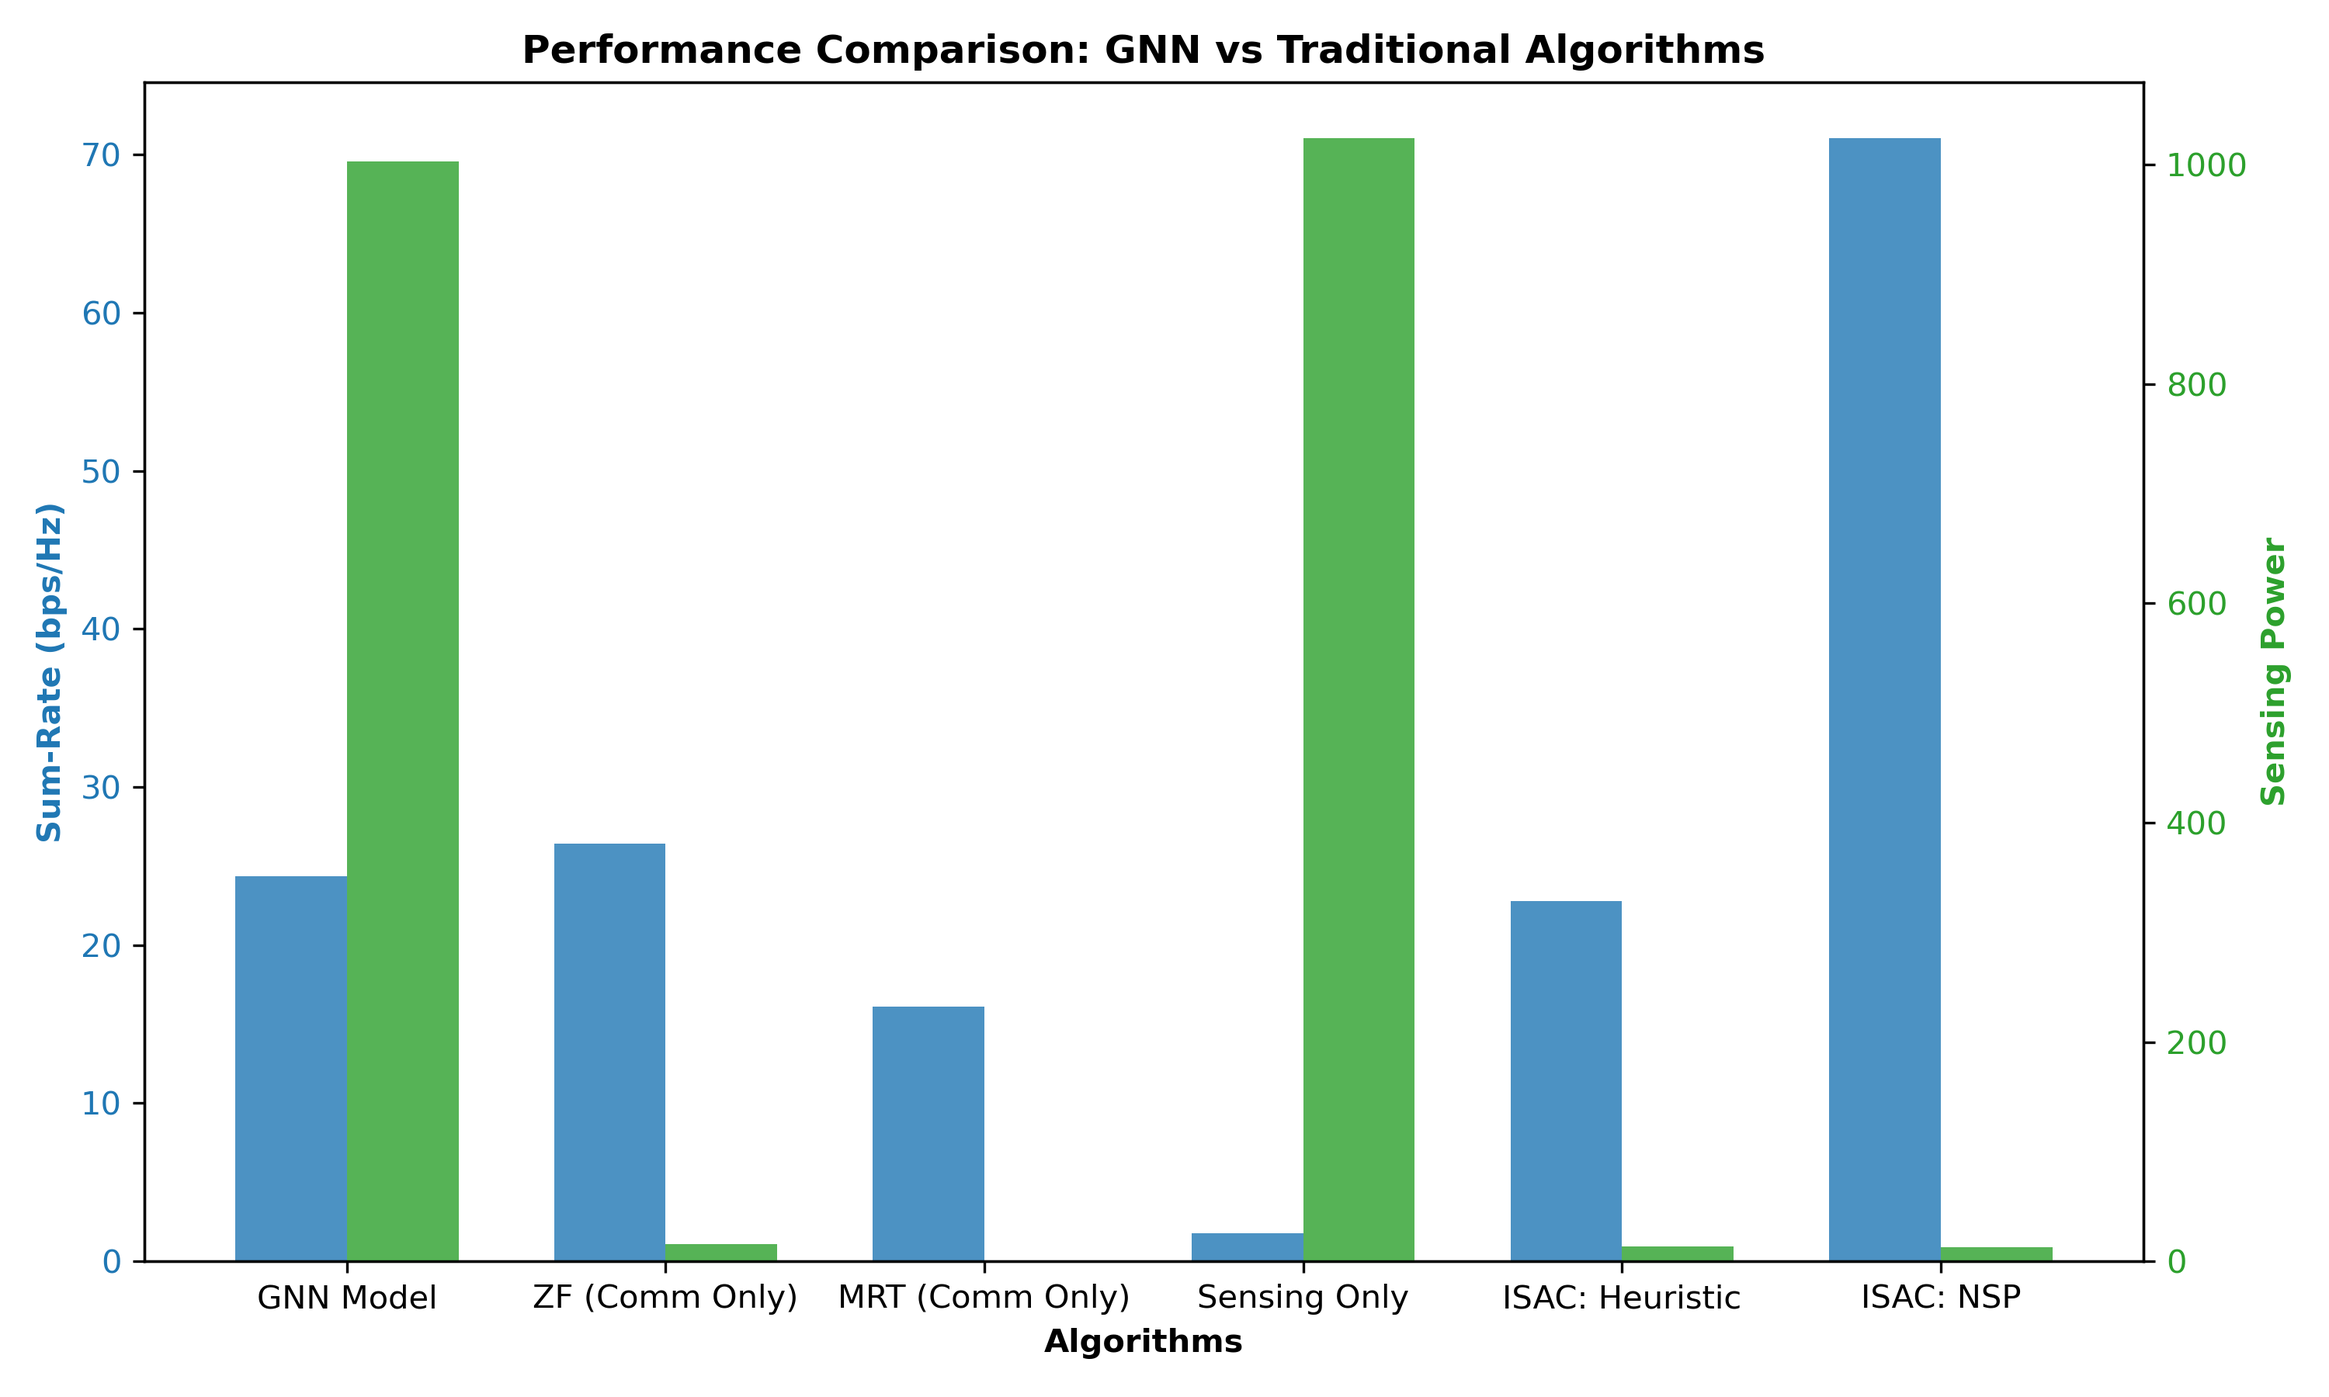
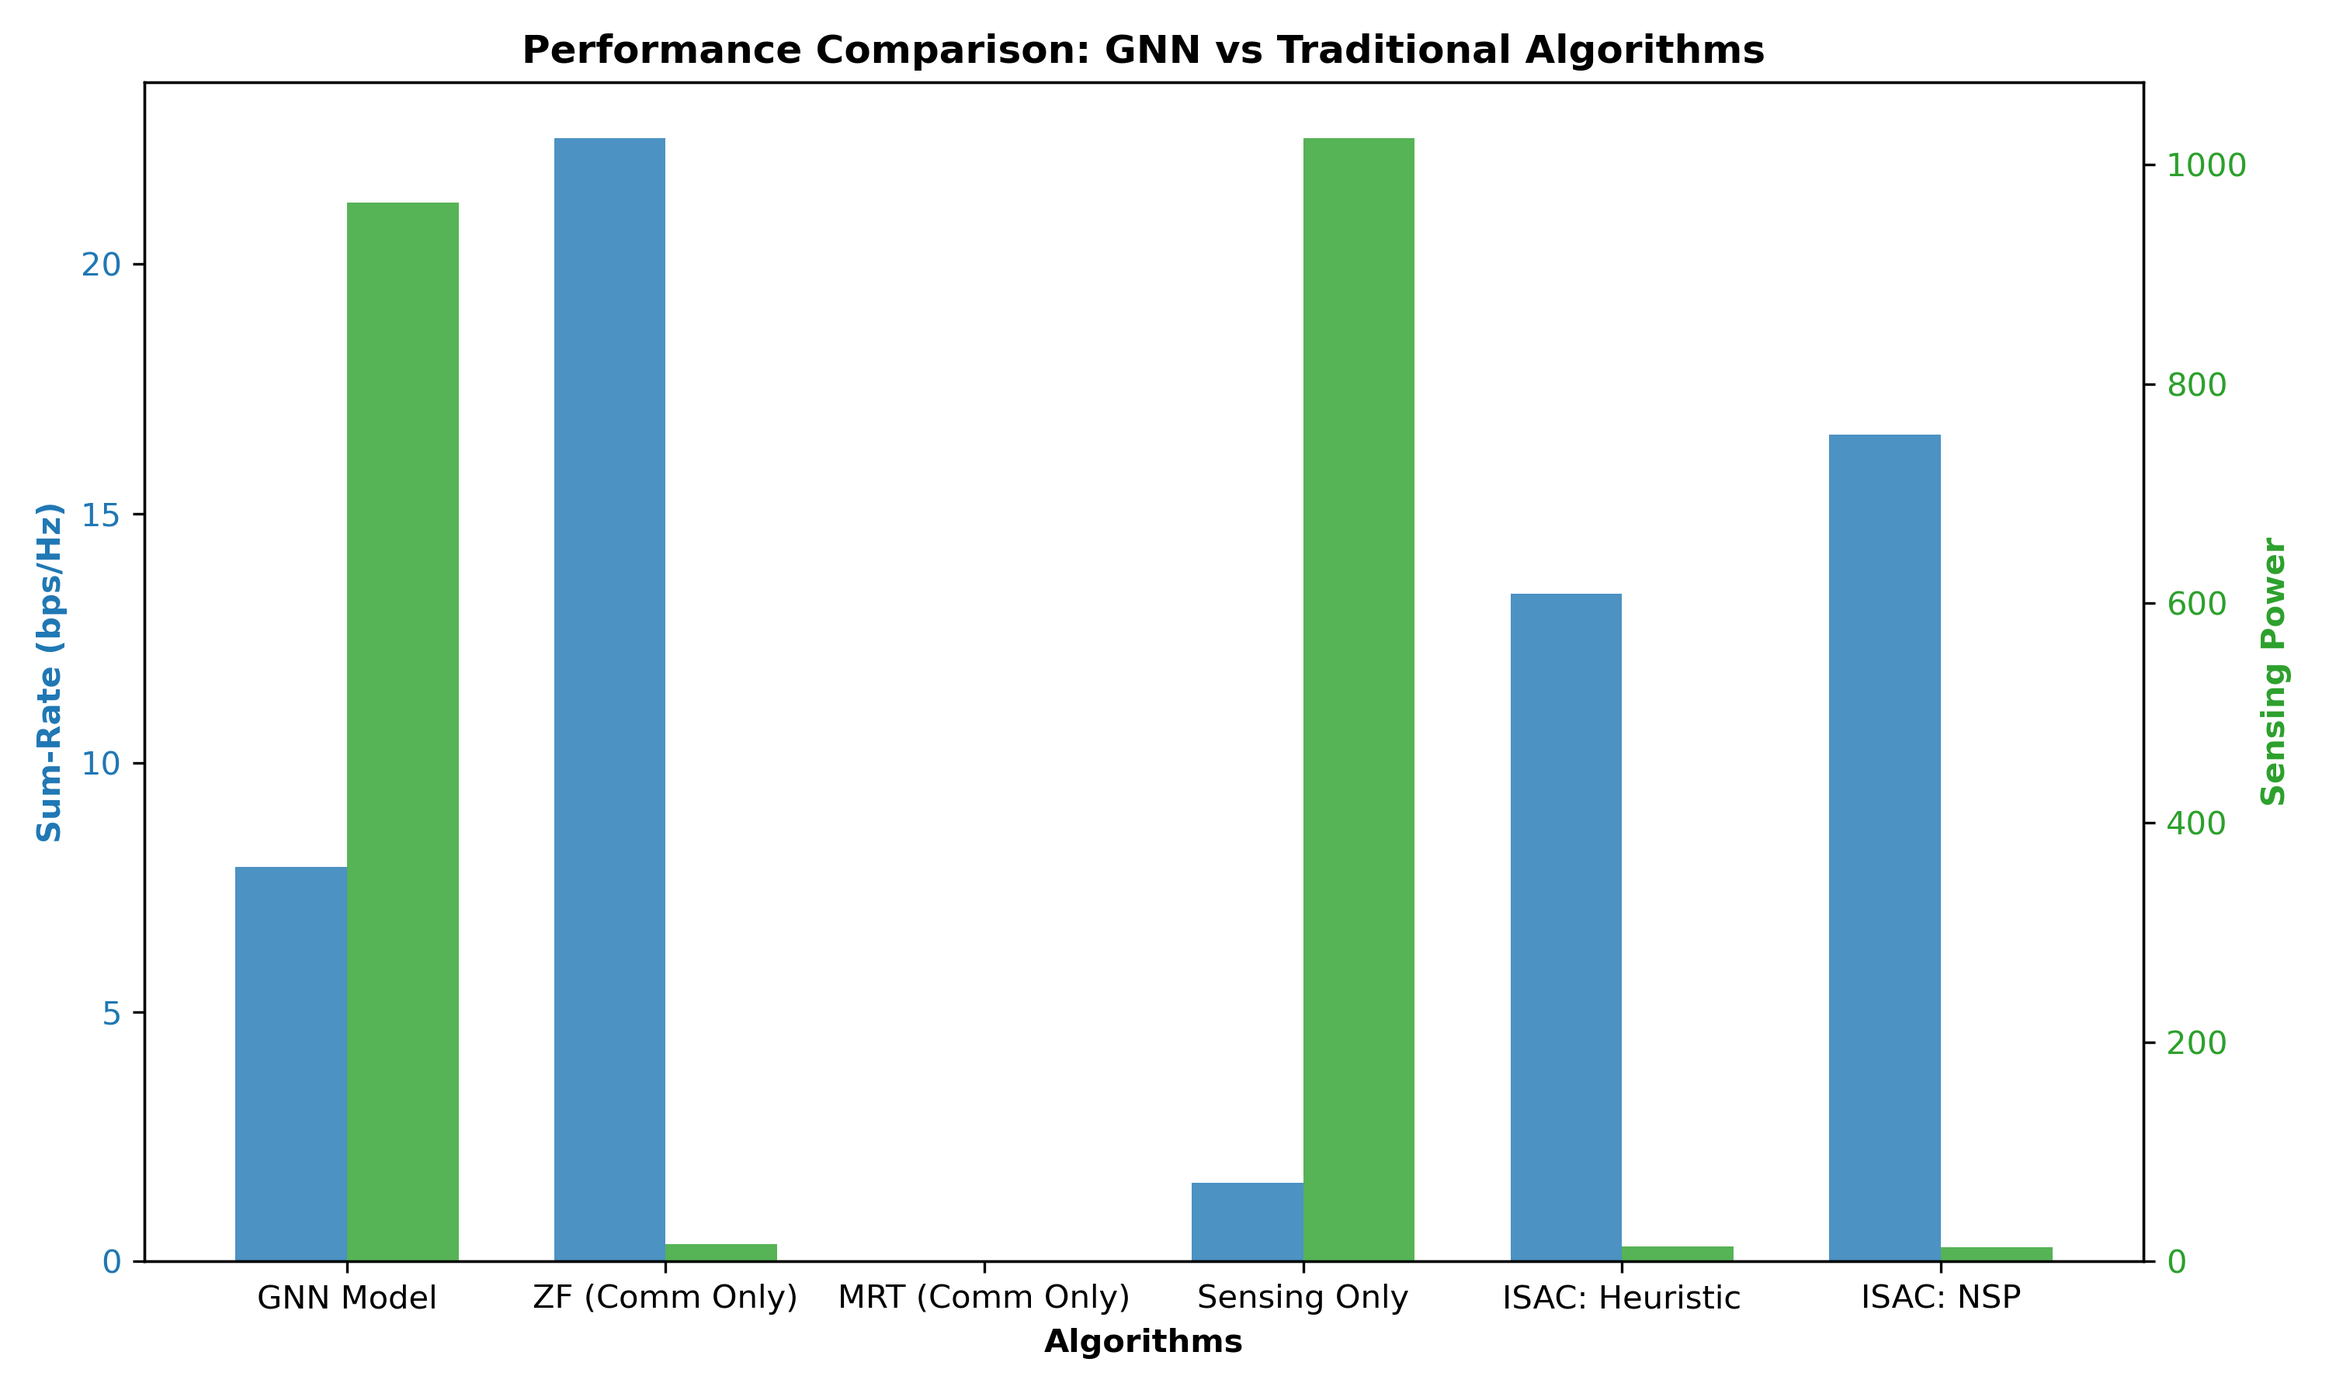
多算法比较

diff --git a/main.py b/main.py
@@ -4,6 +4,9 @@ import matplotlib.pyplot as plt
 from tqdm import tqdm 
 import numpy as np
 
+import argparse
+import os
+
 from sklearn.model_selection import train_test_split
 from torch.utils.data import TensorDataset, DataLoader
 
@@ -12,6 +15,17 @@ from utils.loss_fn import compute_isac_loss
 from models.mlp import ISAC_MLP
 from models.unfolding import ISAC_DeepUnfoldingNet
 from models.GNN_Unfolding import ISAC_GNN_UnfoldingNet
+
+import datetime 
+
+def parse_args():
+    parser = argparse.ArgumentParser(description="ISAC GNN Training")
+    # 核心实验参数
+    parser.add_argument('--algo', type=str, default='gnn_mrt', 
+                        choices=['gnn_mrt', 'gnn_zf', 'gnn_heuristic', 'zf_only', 'mrt_only', 'heuristic_only'])
+    parser.add_argument('--alpha', type=float, default=0.5, help='Trade-off between Rate and Sensing')
+    parser.add_argument('--epochs', type=int, default=100)
+    return parser.parse_args()
 
 def train_isac_model():
     # ==========================================
@@ -29,9 +43,9 @@ def train_isac_model():
     # 【修改点 1】：定义固定的数据集大小
     TOTAL_SAMPLES = 20000  
     BATCH_SIZE = 1024
-    EPOCHS = 200
+    EPOCHS = 1000
     LR = 1e-3
-    ALPHA, RATE_NORM, SENSE_NORM = 0.7, 20.0, 1024
+    ALPHA, RATE_NORM, SENSE_NORM = 0.8, 8.0, 1024
 
     # ==========================================
     # 2. 生成固定数据集并使用 sklearn 划分
@@ -77,9 +91,24 @@ def train_isac_model():
     # ==========================================
     # 3. 初始化模型与优化器
     # ==========================================
-    model = ISAC_GNN_UnfoldingNet(
-        num_ap=NUM_APS, antennas_per_ap=ANTENNAS_PER_AP, num_layers=8, hidden_dim=64, p_max=P_MAX
-    ).to(device)
+    args = parse_args()
+    
+    # 根据命令行参数配置模型
+    if args.algo == 'gnn_mrt':
+        model = ISAC_GNN_UnfoldingNet(NUM_APS, ANTENNAS_PER_AP, num_layers=4, init_method='mrt').to(device)
+    elif args.algo == 'gnn_zf':
+        model = ISAC_GNN_UnfoldingNet(NUM_APS, ANTENNAS_PER_AP, num_layers=4, init_method='zf').to(device)
+    elif args.algo == 'gnn_heuristic':
+        model = ISAC_GNN_UnfoldingNet(NUM_APS, ANTENNAS_PER_AP, num_layers=4, init_method='heuristic').to(device)
+    elif args.algo == 'mrt_only':
+        model = ISAC_GNN_UnfoldingNet(NUM_APS, ANTENNAS_PER_AP, num_layers=0, init_method='mrt').to(device)
+    elif args.algo == 'heuristic_only':
+        model = ISAC_GNN_UnfoldingNet(NUM_APS, ANTENNAS_PER_AP, num_layers=0, init_method='heuristic').to(device)
+    elif args.algo == 'zf_only':
+        model = ISAC_GNN_UnfoldingNet(NUM_APS, ANTENNAS_PER_AP, num_layers=0, init_method='zf').to(device)
+        args.epochs = 1  # 传统算法不需要迭代训练，跑 1 个 epoch 评估即可
+    else:
+        raise ValueError(f"❌ 未知的算法配置: args.algo='{args.algo}'，请检查拼写！")
 
     
     optimizer = optim.Adam(model.parameters(), lr=LR)
@@ -121,7 +150,7 @@ def train_isac_model():
             epoch_train_loss += loss.item() * H_batch.size(0)
             
         avg_train_loss = epoch_train_loss / len(train_dataset)
-        if epoch == 0:
+        if epoch % 50 == 0:
             with torch.no_grad():
                 HW = torch.bmm(H_batch, W)
 
@@ -164,7 +193,7 @@ def train_isac_model():
         epoch_val_rate = 0.0
         epoch_val_sense = 0.0
         
-        with torch.no_grad(): # 明确告诉 PyTorch 不要计算梯度，节省显存并加速
+        with torch.no_grad(): # 不计算梯度，节省显存并加速
             for H_batch, a_batch in val_loader:
                 H_batch = H_batch.to(device)
                 a_batch = a_batch.to(device)
@@ -202,12 +231,41 @@ def train_isac_model():
         })
 
     print("\n 训练完成！")
-    plot_training_history(history)
-    torch.save(model.state_dict(), "isac_gnn_weights.pth")
+    
+    train_params = {
+        'K': K,
+        'AP': NUM_APS,
+        'Ant/AP': ANTENNAS_PER_AP,
+        'Samples': TOTAL_SAMPLES,
+        'Batch': BATCH_SIZE,
+        'Epochs': EPOCHS,
+        'LR': LR,
+        'Alpha': ALPHA,
+        'Rate_Norm': RATE_NORM,
+        'Sense_Norm': SENSE_NORM
+    }
+    
+    # 调用更新后的绘图函数
+    plot_training_history(history, train_params)
+    
+    save_dir = f"./results/{args.algo}/alpha_{args.alpha}/"
+    os.makedirs(save_dir, exist_ok=True)
+    
+    # 训练逻辑...
+    # 保存模型权重和日志到 save_dir
+    torch.save(model.state_dict(), os.path.join(save_dir, "model.pth"))
 
-def plot_training_history(history):
+
+def plot_training_history(history, params):
+    """
+    绘制训练曲线并保存
+    :param history: 包含 loss, rate, sense_power 的字典
+    :param params: 包含训练超参数的字典
+    """
     epochs = range(len(history['train_loss']))
-    plt.figure(figsize=(15, 5))
+    
+    # 稍微增加图片高度，为底部的参数文本留出空间
+    fig = plt.figure(figsize=(16, 6))
     
     plt.subplot(1, 3, 1)
     plt.plot(epochs, history['train_loss'], 'r--', label='Train Loss', alpha=0.5)
@@ -225,8 +283,30 @@ def plot_training_history(history):
     plt.title('Validation Sensing Gain')
     plt.grid(True); plt.legend()
     
-    plt.tight_layout()
-    plt.savefig("training_curves_val.png", dpi=300)
+    # ==========================================
+    # 将参数字典转换为格式化字符串
+    # ==========================================
+    # 每 5 个参数换一行，避免文本太长超出边界
+    param_items = [f"{k}: {v}" for k, v in params.items()]
+    param_str = " | ".join(param_items[:5]) + "\n" + " | ".join(param_items[5:])
+    
+    # 在图片底部添加文本框
+    plt.figtext(0.5, 0.02, f"Training Parameters:\n{param_str}", 
+                ha="center", va="bottom", fontsize=10, 
+                bbox={"facecolor":"#f0f0f0", "alpha":0.8, "pad":5, "edgecolor":"gray"})
+    
+    plt.tight_layout(rect=[0, 0.15, 1, 1]) 
+    
+    # ==========================================
+    # 生成带时间戳的唯一文件名，防止覆盖
+    # ==========================================
+    timestamp = datetime.datetime.now().strftime("%Y%m%d_%H%M%S")
+    filename = f"training_curves_{timestamp}.png"
+    
+    plt.savefig(filename, dpi=300)
+    print(f"\n 绘图完成！训练曲线已保存为: {filename}")
+    
+    plt.close() # 释放内存，防止在循环中多次调用时内存泄漏
 
 if __name__ == '__main__':
     train_isac_model()

diff --git a/evaluate.py b/evaluate.py
@@ -3,14 +3,35 @@ import numpy as np
 import matplotlib.pyplot as plt
 from tqdm import tqdm
 
-# 导入你现有的模块
 from utils.channel_gen import generate_cell_free_channel, generate_cell_free_steering_vector
 from utils.loss_fn import compute_isac_loss
 from models.GNN_Unfolding import ISAC_GNN_UnfoldingNet
-from models.mlp import PowerNormalizationLayer  # 用于基线算法的功率归一化
+from models.mlp import PowerNormalizationLayer  
+
+def per_ap_power_normalize(W, num_ap=16, antennas_per_ap=4, p_max=1.0):
+    """
+    对任意波束矩阵进行单 AP 功率归一化，确保每个 AP 满功率发射
+    """
+    batch_size, num_tx, K = W.shape
+    
+    # 重塑为 (Batch, AP数量, 每个AP的天线数, 用户数)
+    W_reshaped = W.view(batch_size, num_ap, antennas_per_ap, K)
+    
+    # 计算每个 AP 的当前总功率
+    power_per_ap = torch.sum(torch.abs(W_reshaped)**2, dim=(2, 3))
+    
+    # 计算缩放因子：强制将每个 AP 的功率拉伸/压缩到 p_max
+    # 注意：基线算法通常需要满功率发射才能公平对比，所以这里直接除以当前功率
+    scaling_factor = torch.sqrt(p_max / (power_per_ap + 1e-12))
+    scaling_factor = scaling_factor.unsqueeze(-1).unsqueeze(-1)
+    
+    # 应用缩放并恢复形状
+    W_norm = (W_reshaped * scaling_factor).view(batch_size, num_tx, K)
+    
+    return W_norm
 
 
-def get_heuristic_isac_beamformer(H, a, K, rho=0.8, noise_var=1e-13):
+def get_heuristic_isac_beamformer(H, a, K, rho=0.5, noise_var=1e-13, num_ap=16, antennas_per_ap=4):
     """
     传统 ISAC 算法 1: 启发式加权 (Heuristic Trade-off)
     使用方向矢量进行能量比例混合
@@ -19,13 +40,17 @@ def get_heuristic_isac_beamformer(H, a, K, rho=0.8, noise_var=1e-13):
     W_zf = get_zf_beamformer(H, noise_var)
     W_sense = get_sensing_beamformer(a, K)
     
-    # 提取纯方向矩阵 (Frobenius 范数为 1)
+    # 提取方向 (总功率为1)
     W_zf_dir = W_zf / (torch.norm(W_zf, dim=(1,2), keepdim=True) + 1e-12)
     W_sense_dir = W_sense / (torch.norm(W_sense, dim=(1,2), keepdim=True) + 1e-12)
     
-    # 按能量比例混合 (注意是开根号，因为功率是幅度的平方)
-    W_isac = np.sqrt(rho) * W_zf_dir + np.sqrt(1 - rho) * W_sense_dir
-    return W_isac
+    # 混合 (此时总功率约为1)
+    # 注意：这里最好用 torch.sqrt 而不是 np.sqrt，保持张量操作
+    W_isac_raw = torch.sqrt(torch.tensor(rho)) * W_zf_dir + torch.sqrt(torch.tensor(1 - rho)) * W_sense_dir
+    
+    # 致命修复：将总功率为 1 的混合波束，按单 AP 约束放大到满功率 (总功率 16)！
+    return per_ap_power_normalize(W_isac_raw, num_ap, antennas_per_ap)
+
 
 def get_nsp_isac_beamformer(H, a, K, rho=0.8, noise_var=1e-13):
     """
@@ -58,10 +83,9 @@ def get_nsp_isac_beamformer(H, a, K, rho=0.8, noise_var=1e-13):
     return W_isac_nsp
 
 
-
-def get_mrt_beamformer(H):
-    """传统 MRT 波束赋形: W = H^H"""
-    return torch.conj(torch.transpose(H, 1, 2))
+def get_mrt_beamformer(H, num_ap=16, antennas_per_ap=4):
+    W_raw = torch.conj(torch.transpose(H, 1, 2))
+    return per_ap_power_normalize(W_raw, num_ap, antennas_per_ap)
 
 def get_zf_beamformer(H, noise_var=1e-13):
     """传统 ZF 波束赋形: W = H^H (H H^H)^-1"""

diff --git a/utils/baseline.py b/utils/baseline.py
@@ -1,0 +1,63 @@
+import torch
+import math
+
+def get_zf_beamformer(H, noise_var=1e-9):
+    """
+    计算迫零 (Zero-Forcing) 波束赋形矩阵 (支持 Batch 处理)
+    
+    参数:
+    H: 信道矩阵, shape (B, K, N)
+    noise_var: 正则化参数, 防止矩阵求逆时出现 NaN
+    
+    返回:
+    W_zf: 迫零波束矩阵, shape (B, N, K)
+    """
+    B, K, N = H.shape
+    
+    # 1. 计算 H 的共轭转置 H^H -> shape: (B, N, K)
+    H_H = torch.conj(torch.transpose(H, 1, 2))
+    
+    # 2. 计算 H * H^H -> shape: (B, K, K)
+    H_HH = torch.matmul(H, H_H)
+    
+    # 3. 生成正则化项 (noise_var * I)
+    # 注意：必须保持与 H 相同的设备 (CPU/GPU) 和数据类型 (Complex)
+    eye = torch.eye(K, dtype=H.dtype, device=H.device).unsqueeze(0).expand(B, -1, -1)
+    
+    # 4. 矩阵求逆 (H * H^H + noise_var * I)^-1
+    H_HH_inv = torch.linalg.inv(H_HH + noise_var * eye)
+    
+    # 5. 计算最终的 ZF 波束 W = H^H * (H * H^H)^-1 -> shape: (B, N, K)
+    W_zf = torch.matmul(H_H, H_HH_inv)
+    
+    return W_zf
+
+def get_heuristic_isac_beamformer(H, a, rho=0.5):
+    """
+    计算启发式 ISAC 波束赋形矩阵 (Warm-start 初始化)
+    """
+    B, K, N = H.shape
+    
+    # 1. 获取纯通信波束 (ZF)
+    W_zf = get_zf_beamformer(H) # shape: (B, N, K)
+    
+    # ==========================================
+    # 如果 a 是 2D 的 (B, N)，给它增加一个维度变成 (B, N, 1)
+    if a.dim() == 2:
+        a = a.unsqueeze(-1)
+        
+    # 现在 a 的形状是 (B, N, 1)，可以安全地 expand 到 (B, N, K) 了
+    W_sense = a.expand(-1, -1, K) / math.sqrt(K)
+    
+    # 3. 提取纯方向 (全局 Frobenius 范数归一化)
+    norm_zf = torch.norm(W_zf, dim=(1, 2), keepdim=True) + 1e-12
+    W_zf_dir = W_zf / norm_zf
+    
+    norm_sense = torch.norm(W_sense, dim=(1, 2), keepdim=True) + 1e-12
+    W_sense_dir = W_sense / norm_sense
+    
+    # 4. 按能量比例混合
+    W_isac = math.sqrt(rho) * W_zf_dir + math.sqrt(1.0 - rho) * W_sense_dir
+    
+    return W_isac
+

diff --git a/models/GNN_Unfolding.py b/models/GNN_Unfolding.py
@@ -2,6 +2,9 @@ import torch
 import torch.nn as nn
 import torch.nn.functional as F
 from .mlp import PowerNormalizationLayer 
+from utils.baseline import get_zf_beamformer, get_heuristic_isac_beamformer
+
+
 
 class BipartiteGNN_WMMSE_Layer(nn.Module):
     """
@@ -114,10 +117,11 @@ class ISAC_GNN_UnfoldingNet(nn.Module):
     """
     基于 GNN 的 Cell-Free ISAC 深度展开网络
     """
-    def __init__(self, num_ap, antennas_per_ap, num_layers=4, hidden_dim=64, p_max=1.0):
+    def __init__(self, num_ap, antennas_per_ap, num_layers=4, hidden_dim=64, p_max=1.0, init_method='mrt'):
         super().__init__()
         self.num_layers = num_layers
-        
+        self.init_method = init_method
+
         self.unfolding_layers = nn.ModuleList([
             BipartiteGNN_WMMSE_Layer(hidden_dim) 
             for _ in range(num_layers)
@@ -129,11 +133,17 @@ class ISAC_GNN_UnfoldingNet(nn.Module):
 
     def forward(self, H, a):
         # ==========================================
-        # 步骤 0: 物理启发初始化 (MRT - 最大比传输)
+        # 步骤 0: 根据配置选择初始化/基线算法
         # ==========================================
-        # 使用信道的共轭转置作为初始波束方向，并乘以可学习的标量
-        # H: (B, K, N) -> H^H: (B, N, K)
-        W_0 = self.mrt_scale * torch.conj(torch.transpose(H, 1, 2))
+        if self.init_method == 'mrt':
+            W_0 = torch.conj(torch.transpose(H, 1, 2))
+        elif self.init_method == 'zf':
+            W_0 = get_zf_beamformer(H) # 调用你外部写的 ZF 函数
+        elif self.init_method == 'heuristic':
+            W_0 = get_heuristic_isac_beamformer(H, a) # 调用混合函数
+        else:
+            raise ValueError(f"Unknown init_method: {self.init_method}")
+
         
         # 初始功率归一化
         W = self.power_norm(W_0) 

diff --git a/run_pareto.py b/run_pareto.py
@@ -1,3 +1,4 @@
+# 暂时不能用
 import torch
 import numpy as np
 import matplotlib.pyplot as plt
@@ -120,7 +121,6 @@ def train_for_pareto_point(alpha, H_train, a_train):
 # ==========================================
 def main():
     print("生成固定的训练数据集...")
-    # 修改：直接使用 utils/channel_gen.py 中的函数，它们已经返回 Tensor 并放在了 DEVICE 上
     H_train = generate_rayleigh_channel(NUM_SAMPLES, K, M * N, device=DEVICE)
     a_train = generate_steering_vector(NUM_SAMPLES, M * N, device=DEVICE)
     

diff --git a/utils/loss_fn.py b/utils/loss_fn.py
@@ -1,6 +1,6 @@
 import torch
 
-def compute_isac_loss(H, W, a, noise_var=1e-3, alpha=0.5, rate_norm=10.0, sense_norm=1.0):
+def compute_isac_loss(H, W, a, noise_var=1e-3, alpha=0.5, rate_norm=10.0, sense_norm=1024.0):
     """
     计算 Cell-Free ISAC 系统的无监督损失函数
     
